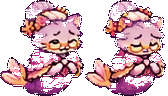
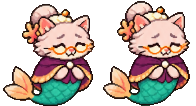
C14 P6: re-render Dark Crystal (solid core) and Elder Brine (solid fills)

diff --git a/tools/slice_c14_art.py b/tools/slice_c14_art.py
@@ -152,21 +152,21 @@ def row_bands(a, n):
     return sorted(bands)
 
 
-def cells12(a):
+def cells12(a, n=12):
     """12 evenly spaced figures in a row: cut at the emptiest column near each expected
     boundary (wide hats and staffs can touch, so blobs alone don't separate them)."""
     col = (a[..., 3] > 40).sum(axis=0).astype(float)
     xs = np.where(col > 0)[0]
     x0, x1 = xs.min(), xs.max() + 1
-    cw = (x1 - x0) / 12.0
+    cw = (x1 - x0) / float(n)
     cuts = [x0]
-    for i in range(1, 12):
+    for i in range(1, n):
         e = x0 + cw * i
         lo, hi = int(e - cw * 0.3), int(e + cw * 0.3)
         cuts.append(lo + int(np.argmin(col[lo:hi])))
     cuts.append(x1)
     out = []
-    for i in range(12):
+    for i in range(n):
         c = a[:, cuts[i]:cuts[i + 1]].copy()
         solid = c[..., 3] > 40
         lab, k = ndimage.label(ndimage.binary_dilation(solid, iterations=2))
@@ -244,6 +244,44 @@ def mg_jobs(check, man):
     return made
 
 
+# Whole-character re-renders (c14_17-19 Dark Crystal gutted by the key, c14_17-10 Elder Brine
+# speckled): sheet -> (group, [(anim, frames) per row]); scaled to the old figure height.
+REDRAWS = {
+    "dark_crystal.png": ("enemies/dark_crystal", [("idle", 4), ("attack", 4), ("hurt", 2)], 22),  # shards join their core
+    "elder_brine.png": ("characters/elder_brine", [("idle", 4), ("walk", 4), ("talk", 4), ("happy", 2), ("sad", 2)], 0),
+}
+
+
+def redraw_jobs(check, man):
+    made = []
+    for sheet, (grp, rows, join) in REDRAWS.items():
+        src = os.path.join(INC, sheet)
+        if not os.path.exists(src):
+            continue
+        a = load(src)
+        old = Image.open(os.path.join(GEN, man[grp]["idle"]["file"])).convert("RGBA")
+        rh = int((np.array(old)[..., 3] > 40).any(axis=1).sum())
+        bands = row_bands(a, len(rows))
+        frames = {}
+        for (y0, y1), (anim, n) in zip(bands, rows):
+            frames[anim] = pieces(a[y0:y1], n, join) if join else cells12(a[y0:y1], n)
+        s = rh / float(np.median([p.shape[0] for p in frames["idle"]]))
+        sized = {k: [shrink(p, (max(1, round(p.shape[1] * s)), max(1, round(p.shape[0] * s)))) for p in v] for k, v in frames.items()}
+        cw = max(f.width for v in sized.values() for f in v) + 2
+        ch = max(f.height for v in sized.values() for f in v) + 1
+        for anim, fr in sized.items():
+            im = strip(fr, cw, ch)
+            rel = "%s/%s.png" % (grp, anim)
+            if not check:
+                dst = os.path.join(GEN, rel)
+                if os.path.exists(dst):
+                    os.remove(dst)
+                im.save(dst)
+                man[grp][anim] = {"file": rel, "w": im.width, "h": im.height, "frames": len(fr), "cell_w": cw, "cell_h": ch}
+            made.append("%s %s x%d %dx%d" % (grp, anim, len(fr), cw, ch))
+    return made
+
+
 def main():
     check = "--check" in sys.argv
     man = json.load(open(MAN))
@@ -267,6 +305,7 @@ def main():
             made.append(f"{group}/{name} {im.width}x{im.height}")
     made += seamless_jobs(check)
     made += mg_jobs(check, man)
+    made += redraw_jobs(check, man)
     if not check:
         with open(MAN, "w") as f:
             json.dump(man, f, indent=1, sort_keys=True)
